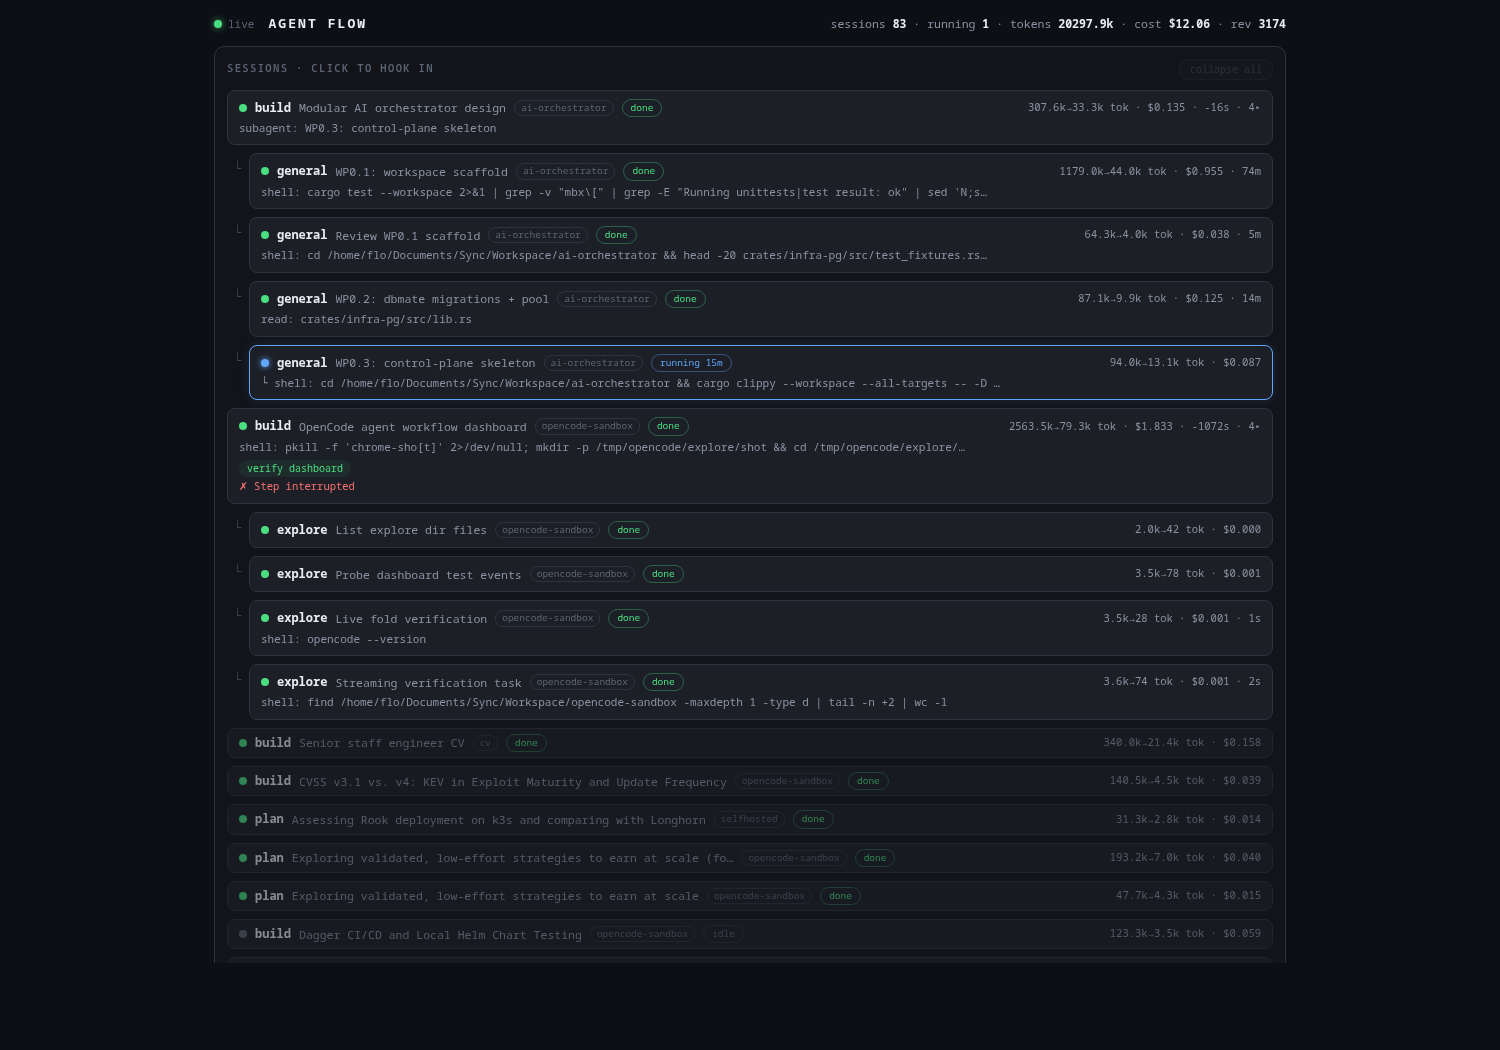
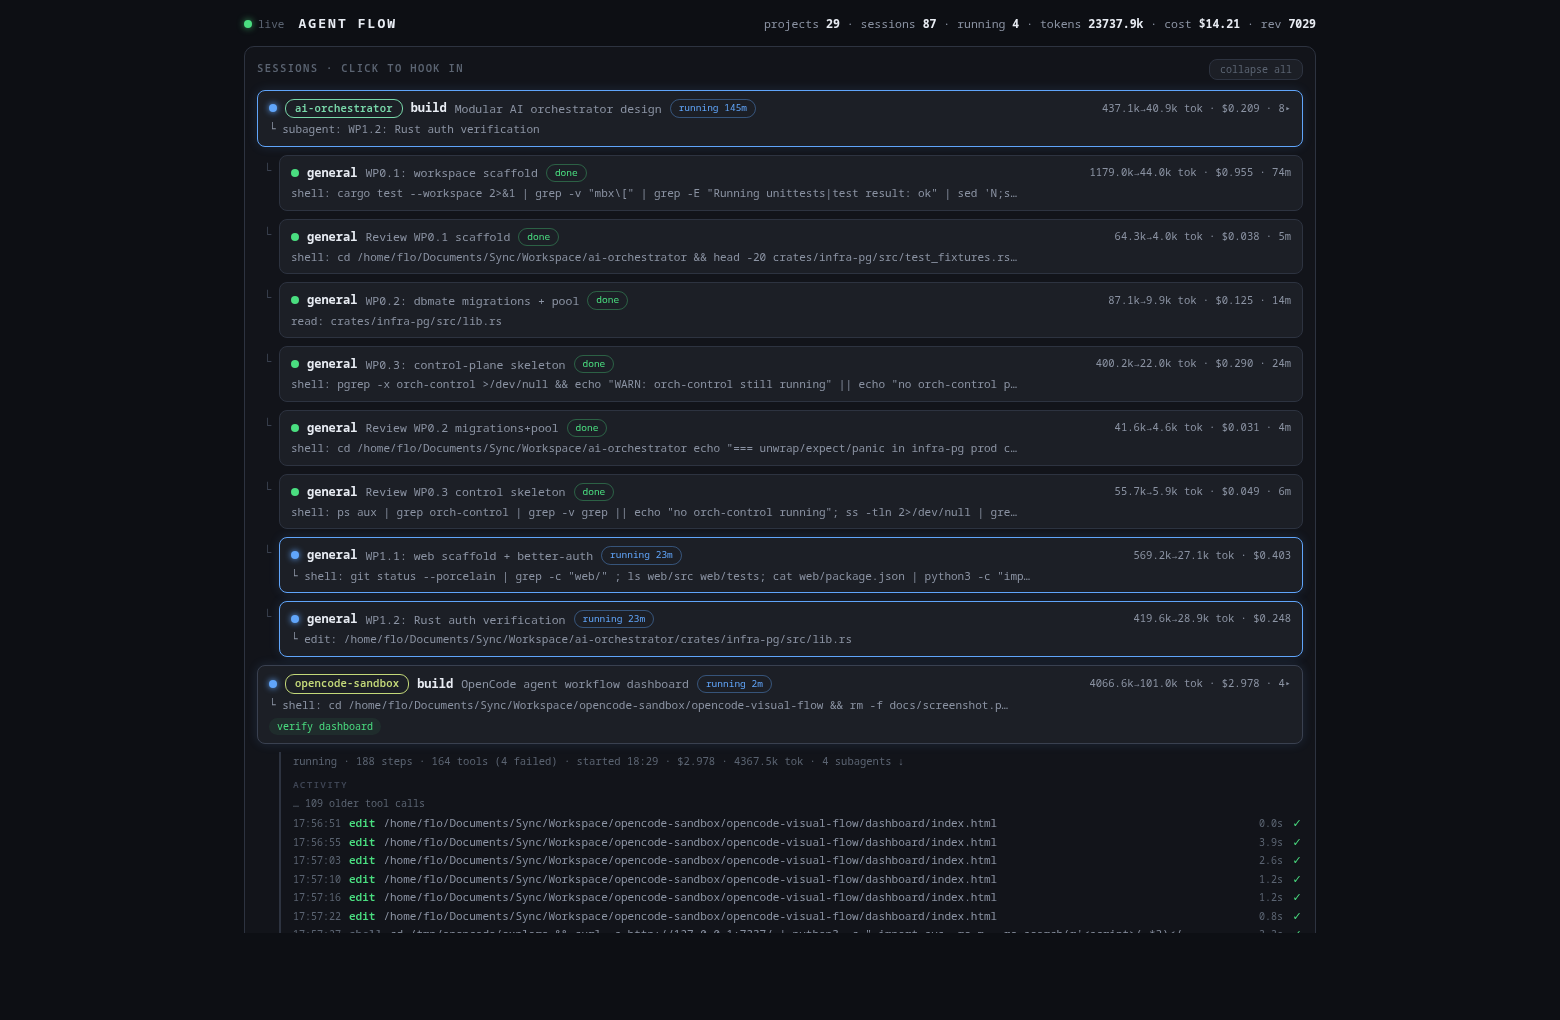
v0.3.0: session-centric UI, live streaming, status-recovery fixes
- Dashboard: one session list (running first), hook-in feeds with live
  streaming (rpc.flow.activity: tool/text/step/status), collapse all,
  project badges with click-to-filter, ?expand=/&?static=1 deep links
- Plugin: reducer folds all locations; session list spans every project
  the service hosts; seed consults /api/session/active so mid-run
  sessions are correct after reloads
- Fixes: superseded/user interrupts no longer strand rows as
  "interrupted" or "done" (evidence-based recovery from live activity);
  aborted "Step interrupted" noise no longer recorded as errors;
  snapshot sanitizer keeps RPC output JSON-valid; sidecar binds IPv4+IPv6
  loopback and /snapshot serves the full model as fallback

diff --git a/dashboard/index.html b/dashboard/index.html
@@ -43,7 +43,12 @@
   .chip.done { color:#4ade80; border-color:rgba(74,222,128,.35); }
   .chip.failed { color:#f87171; border-color:rgba(248,113,113,.4); }
   .chip.idle, .chip.queued { color:#5b6472; }
-  .tag { flex:none; color:#5b6472; font-size:9.5px; border:1px solid #2d3340; border-radius:8px; padding:0 6px; }
+  .proj { flex:none; font-size:10.5px; font-weight:600; padding:1px 9px; border-radius:9px; border:1px solid;
+          letter-spacing:.02em; cursor:pointer; max-width:180px; overflow:hidden; text-overflow:ellipsis; white-space:nowrap; }
+  .proj.on { outline:1px solid currentColor; }
+  .pbar { display:flex; align-items:center; gap:9px; margin-bottom:9px; color:#8b93a3; font-size:11px; }
+  .pbar b { color:#e8ecf3; }
+  .pbar .mini { pointer-events:auto; }
   .meta { margin-left:auto; color:#8b93a3; font-size:10.5px; font-variant-numeric:tabular-nums; flex:none; }
   .sub { color:#8b93a3; font-size:11px; margin-top:3px; min-height:15px; white-space:nowrap; overflow:hidden; text-overflow:ellipsis; }
   .indent { margin-left:22px; position:relative; }
@@ -118,6 +123,11 @@ const hhmmss = t => hhmm(t) + ":" + String(new Date(t).getSeconds()).padStart(2,
 const agentLabel = n => !n.agent || n.agent === "?" ? "unknown" : n.agent
 const titleOf = n => (!n.title || n.title === n.id) ? "session " + n.id.slice(-6) : n.title
 const basename = d => String(d ?? "").split("/").filter(Boolean).pop() || String(d ?? "")
+const projectColor = name => {
+  let h = 0
+  for (let i = 0; i < String(name).length; i++) h = (h * 31 + String(name).charCodeAt(i)) >>> 0
+  return `hsl(${h % 360}, 55%, 66%)`
+}
 const isBusy = n => n.status === "running" || n.status === "waiting"
 const durOf = n => n.startedAt ? ((n.endedAt ?? Date.now()) - n.startedAt) : null
 
@@ -127,8 +137,18 @@ let useSnapshotFallback = false
 let es = null
 let renderTimer = null
 let showAllOld = false
+let projectFilter = null   // directory string or null = all projects
 let expanded = new Set()
 try { expanded = new Set(JSON.parse(localStorage.getItem("flow.expanded") || "[]")) } catch {}
+// deep-link: ?expand=<sessionID> (repeatable) opens feeds without persisting
+// ?static=1 renders one snapshot and skips the live loop (embedding/screenshots)
+let STATIC = false
+try { STATIC = new URLSearchParams(location.search).has("static") } catch {}
+try {
+  for (const id of new URLSearchParams(location.search).getAll("expand")) {
+    if (id) expanded.add(id)
+  }
+} catch {}
 const saveExpanded = () => localStorage.setItem("flow.expanded", JSON.stringify([...expanded]))
 
 // ------------------------------------------------------------- data access
@@ -203,8 +223,10 @@ function connect() {
   } catch { setConn("offline") }
 }
 
-setInterval(() => fetchSnapshot().catch(fail), 5000)
-connect()
+if (!STATIC) {
+  setInterval(() => fetchSnapshot().catch(fail), 5000)
+  connect()
+}
 fetchSnapshot().then(() => setConn("live")).catch(() => {
   useSnapshotFallback = true
   fetchSnapshot().then(() => setConn("live")).catch(() => setConn("offline"))
@@ -213,6 +235,15 @@ fetchSnapshot().then(() => setConn("live")).catch(() => {
 // click: toggle the hook-in feed
 document.getElementById("list").addEventListener("click", e => {
   if (e.target.closest("[data-more]")) { showAllOld = true; render(); return }
+  const clear = e.target.closest("[data-clearproj]")
+  if (clear) { projectFilter = null; render(); return }
+  const proj = e.target.closest("[data-proj]")
+  if (proj) {
+    const dir = proj.dataset.proj || null
+    projectFilter = projectFilter === dir ? null : dir
+    render()
+    return
+  }
   const row = e.target.closest("[data-toggle]")
   if (!row) return
   const id = row.dataset.toggle
@@ -243,10 +274,11 @@ function render() {
 function renderTotals() {
   const ns = nodes()
   const running = ns.filter(isBusy).length
+  const projects = new Set(ns.filter(n => n.dir).map(n => n.dir)).size
   const tok = ns.reduce((t, n) => t + (n.tokens?.input ?? 0) + (n.tokens?.output ?? 0) + (n.tokens?.reasoning ?? 0), 0)
   const cost = ns.reduce((t, n) => t + (n.cost ?? 0), 0)
   document.getElementById("totals").innerHTML =
-    `sessions <b>${ns.length}</b> · running <b>${running}</b> · tokens <b>${kfmt(tok)}</b> · cost <b>$${cost.toFixed(2)}</b> · rev <b>${model.rev ?? 0}</b>`
+    `projects <b>${projects}</b> · sessions <b>${ns.length}</b> · running <b>${running}</b> · tokens <b>${kfmt(tok)}</b> · cost <b>$${cost.toFixed(2)}</b> · rev <b>${model.rev ?? 0}</b>`
 }
 
 // preserve scroll positions of open feeds/output across re-render
@@ -285,12 +317,10 @@ function renderList() {
   const treeRec = r => Math.max(r.updatedAt ?? 0, ...members(r).map(m => m.updatedAt ?? 0))
   const treeFull = r => treeBusy(r) || treeRec(r) > now - RECENT_MS || members(r).some(m => expanded.has(m.id))
 
-  const ordered = roots.slice().sort((a, b) => (treeBusy(b) - treeBusy(a)) || (treeRec(b) - treeRec(a)))
+  // project filter: keep whole trees whose root belongs to the project
+  const rootSet = projectFilter ? roots.filter(r => (r.dir ?? "") === projectFilter) : roots
 
-  // project tags: only when sessions span multiple locations
-  const dirs = new Set()
-  for (const n of ns) if (n.dir) dirs.add(basename(n.dir))
-  const multiProject = dirs.size > 1
+  const ordered = rootSet.slice().sort((a, b) => (treeBusy(b) - treeBusy(a)) || (treeRec(b) - treeRec(a)))
 
   const rows = []       // {n, depth, compact}
   let compactUsed = 0, hiddenOld = 0
@@ -308,26 +338,36 @@ function renderList() {
   }
 
   const scrollState = captureScroll()
-  let html = rows.map(({ n, depth, compact }) => rowHTML(n, depth, compact, kids, multiProject)).join("")
+  let html = ""
+  if (projectFilter) {
+    html += `<div class="pbar">project <b>${esc(basename(projectFilter))}</b>` +
+      `<button class="mini" data-clearproj="1">✕ all projects</button></div>`
+  }
+  html += rows.map(({ n, depth, compact }) => rowHTML(n, depth, compact, kids)).join("")
   if (hiddenOld > 0) html += `<div class="more" data-more="1">show ${hiddenOld} older sessions</div>`
   el.innerHTML = html
   restoreScroll(scrollState)
 }
 
-function rowHTML(n, depth, compact, kids, multiProject) {
+function rowHTML(n, depth, compact, kids) {
   const open = expanded.has(n.id)
   const color = STATUS_COLOR[n.status] ?? "#5b6472"
   const busy = isBusy(n)
   const childRows = (kids.get(n.id) ?? []).length
   const dur = durOf(n)
   const durTxt = dur != null ? (dur > 60_000 ? Math.round(dur / 60_000) + "m" : Math.round(dur / 1000) + "s") : ""
-  const tag = multiProject && n.dir ? `<span class="tag" title="${esc(n.dir)}">${esc(basename(n.dir))}</span>` : ""
+  const pname = n.dir ? basename(n.dir) : "unknown"
+  const pcol = projectColor(pname)
+  const proj = depth === 0
+    ? `<span class="proj ${projectFilter === (n.dir ?? "") ? "on" : ""}" data-proj="${esc(n.dir ?? "")}" ` +
+      `style="color:${pcol};border-color:${pcol}55" title="${esc(n.dir ?? "unknown project")} — click to filter">${esc(short(pname, 24))}</span>`
+    : ""
 
   let inner = `<div class="top">` +
     `<span class="dot" style="background:${color}${busy ? ";box-shadow:0 0 6px " + color : ""}"></span>` +
+    proj +
     `<b>${esc(agentLabel(n))}</b>` +
-    `<span class="title" title="${esc(titleOf(n))}">${esc(short(titleOf(n), 64))}</span>` +
-    tag +
+    `<span class="title" title="${esc(titleOf(n))}">${esc(short(titleOf(n), 56))}</span>` +
     `<span class="chip ${esc(n.status)}">${esc(n.status)}${durTxt && busy ? " " + durTxt : ""}</span>` +
     `<span class="meta">${kfmt(n.tokens?.input ?? 0)}→${kfmt(n.tokens?.output ?? 0)} tok · $${(n.cost ?? 0).toFixed(3)}${compact ? "" : durTxt && !busy ? " · " + durTxt : ""}${childRows ? " · " + childRows + "▸" : ""}</span>` +
     `</div>`

diff --git a/src/flow.ts b/src/flow.ts
@@ -81,6 +81,8 @@ const MAX_PENDING = 256
 
 const REVIEW_AGENT = /review|critic|synthes/i
 const RUNNINGISH: ReadonlySet<FlowStatus> = new Set(["running", "waiting", "queued"])
+// states that live activity (tool start, text streaming) proves stale
+const STALE_STATUSES: ReadonlySet<FlowStatus> = new Set(["done", "failed", "idle", "interrupted", "queued"])
 
 function zeroTokens() {
   return { input: 0, output: 0, reasoning: 0, cacheRead: 0, cacheWrite: 0 }
@@ -193,7 +195,21 @@ export class FlowStore {
     return this.model.nodes[id]
   }
 
+  // The RPC layer JSON-validates the output: strip any own `undefined` values
+  // (e.g. deleted optional fields) before handing the model out.
   snapshot(): FlowModel {
+    const clean = (o: any) => {
+      for (const k of Object.keys(o)) {
+        if (o[k] === undefined) delete o[k]
+        else if (o[k] && typeof o[k] === "object") clean(o[k])
+      }
+    }
+    for (const n of Object.values(this.model.nodes)) {
+      clean(n)
+      for (const t of n.tasks) clean(t)
+    }
+    for (const t of this.model.ticks) clean(t)
+    for (const e of this.model.edges) clean(e)
     return this.model
   }
 
@@ -221,7 +237,7 @@ export class FlowStore {
 
   // Backfill: sessions that predate this plugin load. Stored task/verdict/
   // lastText state wins; identity + usage come from the session info.
-  seed(list: any[], _active: Record<string, unknown> = {}) {
+  seed(list: any[], active: Record<string, unknown> = {}, activeKnown = false) {
     for (const s of list) {
       if (!s?.id || typeof s.id !== "string") continue
       const at = s.time?.created ?? Date.now()
@@ -248,10 +264,13 @@ export class FlowStore {
           cacheWrite: s.tokens.cache?.write ?? node.tokens.cacheWrite ?? 0,
         }
       }
-      if (s.outcome === "succeeded") node.status = "done"
+      const isActive = activeKnown && active[s.id] !== undefined
+      if (isActive) node.status = "running"
+      else if (s.outcome === "succeeded") node.status = "done"
       else if (s.outcome === "failed") node.status = "failed"
       else if (s.outcome === "interrupted") node.status = "interrupted"
       else if (!stored || node.status === "queued") node.status = "idle"
+      else if (activeKnown && node.status === "running") node.status = "idle" // stale after restart
       this.known.add(s.id)
     }
     this.bump()
@@ -271,7 +290,8 @@ export class FlowStore {
     else if (action === "progress") entry.state = entry.state === "failed" ? "failed" : "active"
     else if (action === "done") entry.state = "done"
     else if (action === "fail") entry.state = "failed"
-    entry.detail = detail
+    if (detail === undefined) delete entry.detail
+    else entry.detail = detail
     entry.at = at
     if (node.tasks.length > MAX_TASKS) node.tasks.splice(0, node.tasks.length - MAX_TASKS)
     this.bump()
@@ -319,6 +339,8 @@ export class FlowStore {
         const node = this.ensure(sid, at)
         node.status = "running"
         node.startedAt = at
+        delete node.endedAt // must not own undefined values: RPC output is JSON-validated
+        delete node.error // fresh run supersedes any previous step error
         this.onActivity?.(sid, "status", { status: "running" })
         handled = true
         break
@@ -345,9 +367,16 @@ export class FlowStore {
       case "session.execution.interrupted": {
         if (!sid) break
         const node = this.ensure(sid, at)
-        node.status = "interrupted"
-        node.endedAt = at
-        this.onActivity?.(sid, "status", { status: "interrupted" })
+        // "superseded" always precedes a replacement execution — the following
+        // execution.started/step events carry the real state, so don't flip the
+        // row to a terminal-looking status for it.
+        if (data.reason !== "superseded") {
+          node.status = "interrupted"
+          node.endedAt = at
+          this.onActivity?.(sid, "status", { status: "interrupted" })
+        } else {
+          delete node.endedAt
+        }
         handled = true
         break
       }
@@ -384,7 +413,10 @@ export class FlowStore {
         if (!sid || !this.known.has(sid)) break
         const node = this.ensure(sid, at)
         node.steps++
-        if (node.status !== "running" && node.status !== "done" && node.status !== "failed") node.status = "running"
+        delete node.error // session made progress; a previous step error is stale
+        const prev = node.status
+        node.status = "running" // a step starting IS execution — overrides stale done/failed/idle
+        if (prev !== node.status) this.onActivity?.(sid, "status", { status: node.status })
         this.onActivity?.(sid, "step", { phase: "started" })
         handled = true
         break
@@ -392,8 +424,14 @@ export class FlowStore {
       case "session.step.failed": {
         if (!sid) break
         const node = this.model.nodes[sid]
-        if (node && data.error?.message) {
-          node.error = String(data.error.message).slice(0, 200)
+        if (!node) break
+        const etype = String(data.error?.type ?? "")
+        const emsg = String(data.error?.message ?? "")
+        // "aborted"/"Step interrupted" is routine steer/interrupt control flow,
+        // not a failure — record only real step errors.
+        if (etype === "aborted" || /abort|interrupt/i.test(emsg)) break
+        if (data.error?.message) {
+          node.error = emsg.slice(0, 200)
           this.model.errors.push(`[${node.agent}] ${node.error}`)
           if (this.model.errors.length > MAX_ERRORS) this.model.errors.splice(0, this.model.errors.length - MAX_ERRORS)
           this.onActivity?.(sid, "step", { phase: "failed", error: node.error })
@@ -403,6 +441,7 @@ export class FlowStore {
       }
       case "session.tool.input.started": {
         if (!sid || !this.known.has(sid)) break
+        this.recover(sid)
         const node = this.ensure(sid, at)
         this.pendingInput.set(data.id, { name: data.name })
         if (this.pendingInput.size > MAX_PENDING) {
@@ -427,6 +466,7 @@ export class FlowStore {
       }
       case "session.tool.called": {
         if (!sid || !this.known.has(sid)) break
+        this.recover(sid)
         const node = this.ensure(sid, at)
         let p = this.pendingInput.get(data.id)
         if (!p) {
@@ -503,6 +543,7 @@ export class FlowStore {
         if (!sid) break
         const node = this.model.nodes[sid]
         if (!node) break
+        this.recover(sid)
         if (typeof data.delta === "string") {
           node.lastText = (node.lastText ?? "") + data.delta
           if (node.lastText.length > MAX_TEXT) node.lastText = node.lastText.slice(-MAX_TEXT)
@@ -516,6 +557,7 @@ export class FlowStore {
         if (!sid) break
         const node = this.model.nodes[sid]
         if (!node || typeof data.text !== "string") break
+        this.recover(sid)
         node.lastText = data.text.slice(0, MAX_TEXT)
         if (REVIEW_AGENT.test(node.agent)) {
           const { verdict, flags } = extractVerdict(data.text)
@@ -588,6 +630,18 @@ export class FlowStore {
   }
 
   // ------------------------------------------------------------------ private
+
+  // Live activity is evidence the session is executing — recover rows stuck in
+  // a stale state (interrupted from a steer gap, or done/failed/idle when a
+  // re-run's execution.started was missed, e.g. during a plugin reload).
+  private recover(sid: string) {
+    const node = this.model.nodes[sid]
+    if (node && STALE_STATUSES.has(node.status)) {
+      node.status = "running"
+      delete node.endedAt
+      this.onActivity?.(sid, "status", { status: "running" })
+    }
+  }
 
   private ensure(id: string, at: number): FlowNode {
     let n = this.model.nodes[id]

diff --git a/src/index.ts b/src/index.ts
@@ -11,7 +11,7 @@
 import { Plugin } from "@opencode/plugin"
 import { Flow } from "./rpc"
 import { FlowStore } from "./flow"
-import { startSidecar } from "./sidecar"
+import { serviceEndpoint, startSidecar } from "./sidecar"
 
 export default Plugin.define({
   id: "opencode-visual-flow",
@@ -40,7 +40,26 @@ export default Plugin.define({
         cursor = page?.cursor?.next ?? undefined
         if (!cursor) break
       }
-      store.seed(sessions)
+      // server truth on what is running right now (guards against missed
+      // events during reloads — sessions mid-run are marked running)
+      let active: Record<string, unknown> = {}
+      let activeKnown = false
+      try {
+        const ep = serviceEndpoint()
+        if (ep.url) {
+          const r = await fetch(ep.url.replace(/\/+$/, "") + "/api/session/active", {
+            headers: ep.authorization ? { authorization: ep.authorization } : {},
+            signal: AbortSignal.timeout(5000),
+          })
+          if (r.ok) {
+            active = (await r.json())?.data ?? {}
+            activeKnown = true
+          }
+        }
+      } catch (e) {
+        console.error("[flow] active fetch failed:", e)
+      }
+      store.seed(sessions, active, activeKnown)
     } catch (e) {
       console.error("[flow] seed failed:", e)
     }
@@ -142,6 +161,7 @@ export default Plugin.define({
       port: (ctx.options as any)?.port ?? 7337,
       directory: ctx.location.directory,
       meta: () => ({ rev: store.model.rev, nodes: Object.keys(store.model.nodes).length }),
+      snapshot: () => store.snapshot(),
     })
 
     console.log(

diff --git a/src/sidecar.ts b/src/sidecar.ts
@@ -30,11 +30,25 @@ function loadService(): ServiceInfo {
   }
 }
 
+/** Current service endpoint + auth header, read fresh from the registration file. */
+export function serviceEndpoint(): { url?: string; authorization?: string } {
+  const s = loadService()
+  return {
+    url: s.url,
+    authorization:
+      s.password === undefined
+        ? undefined
+        : "Basic " + Buffer.from(`opencode:${s.password}`).toString("base64"),
+  }
+}
+
 export interface SidecarOptions {
   port: number
   /** Plugin location directory — used to locate dashboard/index.html. */
   directory: string
   meta?: () => { rev: number; nodes: number }
+  /** Full model provider — served on /snapshot as a dashboard fallback. */
+  snapshot?: () => unknown
 }
 
 export interface Sidecar {
@@ -104,7 +118,7 @@ export function startSidecar(opts: SidecarOptions): Sidecar {
 
     if (p === "/snapshot") {
       res.writeHead(200, { "content-type": "application/json" })
-      res.end(JSON.stringify(opts.meta ? opts.meta() : { rev: 0, nodes: 0 }))
+      res.end(JSON.stringify(opts.snapshot ? opts.snapshot() : (opts.meta?.() ?? { rev: 0, nodes: 0 })))
       return
     }
 
